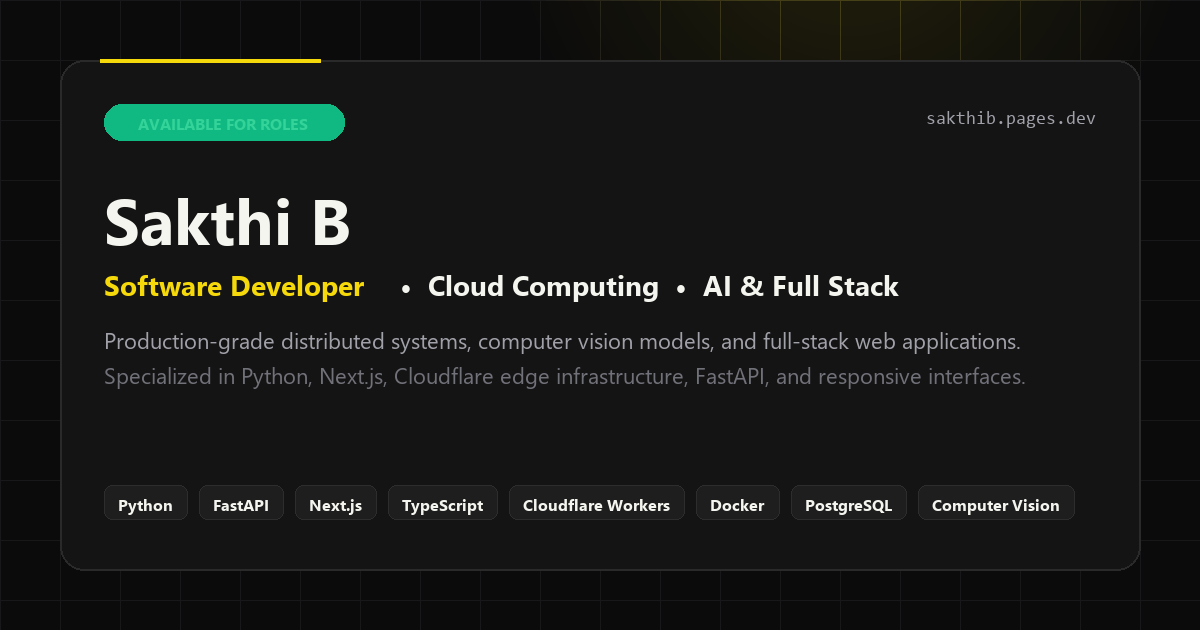
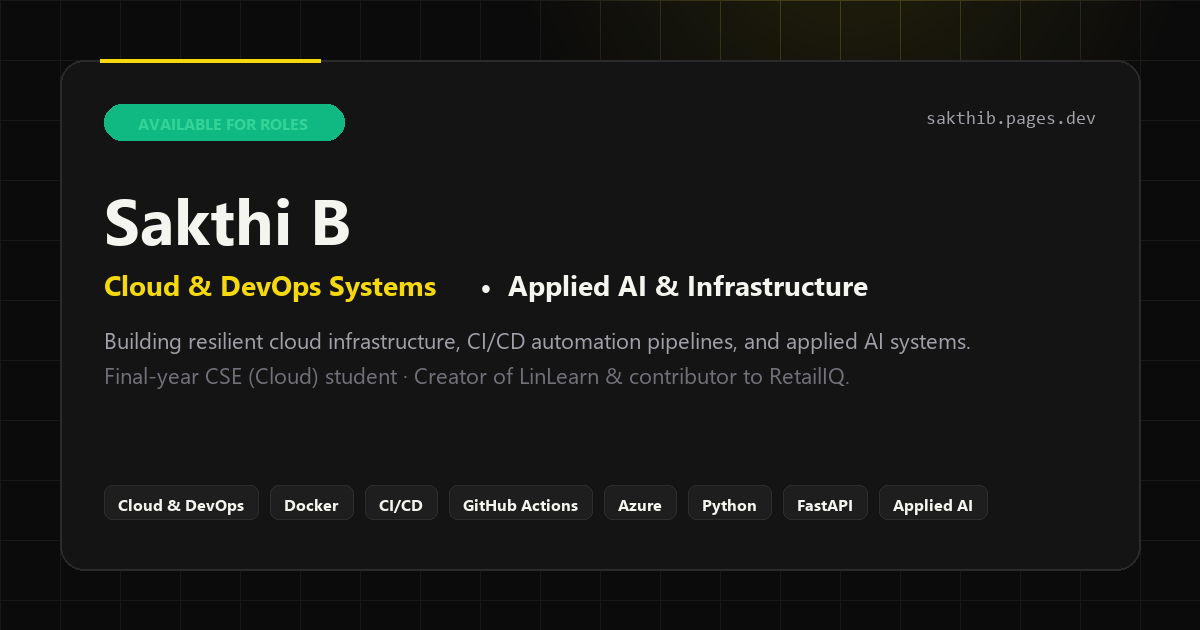
feat: revamp hero section with Cloud & DevOps positioning and proof points

diff --git a/components/HeroSection.tsx b/components/HeroSection.tsx
@@ -1,25 +1,7 @@
-import { ArrowDownRight, Download, Mail, MapPin } from "lucide-react";
+import { ArrowDownRight, ArrowUpRight, Download, Mail, MapPin } from "lucide-react";
 import Link from "next/link";
 import { GitHubIcon, LinkedInIcon } from "@/components/BrandIcons";
 import { siteConfig } from "@/lib/site-config";
-
-const focusPillars = [
-  {
-    code: "01",
-    title: "Full-Stack Engineering",
-    detail: "Next.js, TypeScript, FastAPI, Node.js, PostgreSQL & MongoDB",
-  },
-  {
-    code: "02",
-    title: "Cloud & DevOps",
-    detail: "Docker, Kubernetes, GCP Cloud Run, Azure, AWS & GitHub Actions",
-  },
-  {
-    code: "03",
-    title: "Computer Vision & AI",
-    detail: "YOLO11n, ByteTrack, OpenCV, Hybrid RAG & Groq LLM APIs",
-  },
-];
 
 export function HeroSection() {
   return (
@@ -29,35 +11,30 @@ export function HeroSection() {
       className="relative border-b border-[#242424] pt-8 pb-12 md:pt-12 md:pb-16 lg:pt-14 lg:pb-20"
     >
       <div className="portfolio-container">
-        {/* Top Metadata Bar */}
         <div className="mb-6 flex flex-wrap items-center justify-between gap-3 md:mb-8">
           <div className="inline-flex items-center gap-2 rounded-full border border-[#242424] bg-[#141414] px-3.5 py-1.5 text-meta text-[#A1A1AA]">
             <MapPin className="h-3.5 w-3.5 text-[#F5D90A]" aria-hidden="true" />
             <span>{siteConfig.location}</span>
           </div>
 
-          <div className="inline-flex items-center rounded-full bg-[#F5D90A] px-3.5 py-1.5 text-meta font-semibold text-[#0B0B0B]">
-            <span>Software Developer · Cloud &amp; AI</span>
+          <div className="inline-flex items-center gap-2 rounded-full border border-[#242424] bg-[#141414] px-3.5 py-1.5 text-meta text-[#A1A1AA]">
+            <span aria-hidden="true" className="h-1.5 w-1.5 rounded-full bg-[#F5D90A]" />
+            <span>Cloud &amp; DevOps · Applied AI</span>
           </div>
         </div>
 
-        {/* Balanced Two-Column Hero Grid */}
         <div className="grid grid-cols-1 items-start gap-8 lg:grid-cols-12 lg:items-center lg:gap-10">
-          {/* Left Column: 4-Line Editorial Headline, Intro, CTAs */}
           <div className="lg:col-span-7">
             <h1 className="font-display text-[clamp(2.15rem,1.35rem+3.8vw,4.5rem)] leading-[0.98] font-bold tracking-[-0.03em] text-[#F5F5F0]">
-              <span className="block">DESIGNING.</span>
-              <span className="block text-[#F5D90A]">BUILDING.</span>
-              <span className="block">ENGINEERING</span>
-              <span className="block">WHAT&apos;S NEXT.</span>
+              <span className="block">I BUILD</span>
+              <span className="block text-[#F5D90A]">CLOUD &amp; DEVOPS</span>
+              <span className="block">SYSTEMS.</span>
             </h1>
 
             <p className="mt-5 max-w-xl text-base leading-relaxed text-[#A1A1AA] md:mt-6 md:text-lg">
-              I&apos;m Sakthi B, a software developer interested in full-stack engineering,
-              cloud computing, computer vision, and AI-powered applications.
+              Final-year CSE (Cloud) student. I built LinLearn, a browser-native Linux &amp; DevOps training platform, and contributed frontend and CI/CD to RetailIQ, a YOLO-based retail analytics system.
             </p>
 
-            {/* Primary & Secondary CTAs */}
             <div className="mt-6 flex flex-wrap items-center gap-3.5 md:mt-7">
               <Link
                 href="/projects/"
@@ -88,7 +65,6 @@ export function HeroSection() {
               </Link>
             </div>
 
-            {/* Profile Links */}
             <div className="mt-7 flex flex-wrap items-center gap-x-4 gap-y-2 border-t border-[#242424] pt-5">
               <a
                 href={siteConfig.githubUrl}
@@ -116,7 +92,6 @@ export function HeroSection() {
             </div>
           </div>
 
-          {/* Right Column: Engineer Profile Card */}
           <div className="lg:col-span-5">
             <div className="editorial-grid-bg rounded-[20px] border border-[#242424] bg-[#141414] p-5 sm:p-6">
               <div className="flex items-center justify-between border-b border-[#242424] pb-3.5">
@@ -134,29 +109,89 @@ export function HeroSection() {
               </div>
 
               <div className="mt-4 space-y-3">
-                {focusPillars.map((pillar) => (
-                  <div
-                    key={pillar.code}
-                    className="rounded-[12px] border border-[#242424] bg-[#0B0B0B]/85 p-3.5"
-                  >
-                    <div className="flex items-center justify-between gap-2">
-                      <span className="font-display text-sm font-semibold text-[#F5F5F0]">
-                        {pillar.title}
-                      </span>
-                      <span className="font-mono-code text-xs text-[#F5D90A]">
-                        {pillar.code}
-                      </span>
-                    </div>
-                    <p className="mt-1 text-xs leading-relaxed text-[#A1A1AA]">
-                      {pillar.detail}
-                    </p>
+                <div className="rounded-[12px] border border-[#2A2A2A] bg-[#0B0B0B]/90 p-3.5 transition-colors hover:border-[#F5D90A]/40">
+                  <div className="flex items-center justify-between gap-2">
+                    <span className="font-display text-sm font-bold text-[#F5F5F0]">
+                      LinLearn
+                    </span>
+                    <span className="font-mono-code rounded bg-[#F5D90A] px-2 py-0.5 text-[10px] font-bold text-[#0B0B0B]">
+                      FEATURED PROJECT
+                    </span>
                   </div>
-                ))}
+
+                  <div className="mt-2.5 overflow-hidden rounded-[8px] border border-[#242424] bg-[#0E091A]">
+                    {/* eslint-disable-next-line @next/next/no-img-element */}
+                    <img
+                      src="/images/projects/linlearn-preview.png"
+                      alt="LinLearn Linux and DevOps training platform dashboard preview"
+                      width={480}
+                      height={230}
+                      loading="lazy"
+                      decoding="async"
+                      className="h-24 sm:h-28 w-full object-cover object-top transition-transform duration-300 hover:scale-[1.02]"
+                    />
+                  </div>
+
+                  <p className="mt-2 text-xs leading-relaxed text-[#D4D4D8]">
+                    Browser-native Linux &amp; DevOps training with incident simulation and mastery tracking
+                  </p>
+
+                  <div className="mt-3 flex flex-wrap items-center gap-2">
+                    <a
+                      href="https://linlearn.vercel.app/dashboard"
+                      target="_blank"
+                      rel="noopener noreferrer"
+                      className="inline-flex min-h-[36px] items-center gap-1.5 rounded-[6px] bg-[#F5D90A] px-3.5 py-1.5 font-display text-xs font-bold text-[#0B0B0B] transition-colors hover:bg-[#FFE524]"
+                    >
+                      <span>Live Demo</span>
+                      <ArrowUpRight className="h-3.5 w-3.5" aria-hidden="true" />
+                    </a>
+                    <a
+                      href="https://github.com/b-Sakthi/linlearn"
+                      target="_blank"
+                      rel="noopener noreferrer"
+                      className="inline-flex min-h-[36px] items-center gap-1.5 rounded-[6px] border border-[#2A2A2A] bg-[#141414] px-3 py-1.5 text-xs font-medium text-[#F5F5F0] transition-colors hover:border-[#F5D90A] hover:text-[#F5D90A]"
+                    >
+                      <GitHubIcon className="h-3.5 w-3.5" />
+                      <span>GitHub</span>
+                    </a>
+                  </div>
+                </div>
+
+                <div className="rounded-[12px] border border-[#242424] bg-[#0B0B0B]/85 p-3.5">
+                  <div className="flex items-center justify-between gap-2">
+                    <span className="font-display text-sm font-semibold text-[#F5F5F0]">
+                      Cloud &amp; DevOps
+                    </span>
+                    <span className="font-mono-code text-xs text-[#F5D90A]">
+                      02
+                    </span>
+                  </div>
+                  <p className="mt-1 text-xs leading-relaxed text-[#A1A1AA]">
+                    Docker, Docker Compose, GitHub Actions, CI/CD, Azure
+                  </p>
+                </div>
+
+                <div className="rounded-[12px] border border-[#242424] bg-[#0B0B0B]/85 p-3.5">
+                  <div className="flex items-center justify-between gap-2">
+                    <span className="font-display text-sm font-semibold text-[#F5F5F0]">
+                      Computer Vision &amp; AI
+                    </span>
+                    <span className="font-mono-code text-xs text-[#F5D90A]">
+                      03
+                    </span>
+                  </div>
+                  <p className="mt-1 text-xs leading-relaxed text-[#A1A1AA]">
+                    Python, FastAPI, OpenCV, Hybrid RAG, Groq
+                  </p>
+                </div>
               </div>
 
               <div className="mt-4 flex items-center justify-between border-t border-[#242424] pt-3.5 text-meta text-[#A1A1AA]">
                 <span>B.Tech CSE · Cloud</span>
-                <span className="font-mono-code text-[#F5F5F0]">CGPA 7.9/10</span>
+                <span className="font-mono-code text-xs font-semibold text-[#F5F5F0]">
+                  AZ-900 · OCI AI Foundations 2025
+                </span>
               </div>
             </div>
           </div>

diff --git a/app/layout.tsx b/app/layout.tsx
@@ -37,25 +37,28 @@ export const viewport: Viewport = {
 export const metadata: Metadata = {
   metadataBase: new URL(siteConfig.siteUrl),
   title: {
-    default: `${siteConfig.name} | Software Developer`,
+    default: `${siteConfig.name} | Cloud & DevOps Systems`,
     template: `%s | ${siteConfig.name}`,
   },
   description:
-    "Portfolio of Sakthi B — Software Developer in Bengaluru, India specializing in full-stack engineering, cloud computing, computer vision, and AI-powered applications.",
+    "Portfolio of Sakthi B — Cloud & DevOps engineer and final-year CSE student in Bengaluru building reliable cloud infrastructure, CI/CD pipelines, and applied AI systems.",
   keywords: [
     "Sakthi B",
-    "Software Developer",
-    "Full Stack Engineer",
     "Cloud Computing",
-    "Computer Vision",
-    "AI Applications",
+    "DevOps",
+    "CI/CD",
+    "Docker",
+    "Azure",
+    "GitHub Actions",
+    "LinLearn",
+    "RetailIQ",
+    "Applied AI",
     "Bengaluru",
-    "Next.js",
     "FastAPI",
     "Python",
+    "Next.js",
     "TypeScript",
     "Cloudflare Workers",
-    "Docker",
   ],
   authors: [{ name: siteConfig.name, url: siteConfig.githubUrl }],
   creator: siteConfig.name,
@@ -68,23 +71,23 @@ export const metadata: Metadata = {
     locale: "en_IN",
     url: "/",
     siteName: `${siteConfig.name} Portfolio`,
-    title: `${siteConfig.name} | Software Developer`,
+    title: `${siteConfig.name} | Cloud & DevOps Systems`,
     description:
-      "Software developer in Bengaluru, India specializing in full-stack engineering, cloud computing, computer vision, and AI-powered applications.",
+      "Cloud & DevOps engineer building resilient cloud infrastructure, CI/CD automation, and applied AI systems.",
     images: [
       {
         url: "/og-image.png",
         width: 1200,
         height: 630,
-        alt: `${siteConfig.name} | Software Developer Portfolio`,
+        alt: `${siteConfig.name} | Cloud & DevOps Systems Portfolio`,
       },
     ],
   },
   twitter: {
     card: "summary_large_image",
-    title: `${siteConfig.name} | Software Developer`,
+    title: `${siteConfig.name} | Cloud & DevOps Systems`,
     description:
-      "Software developer in Bengaluru, India specializing in full-stack engineering, cloud computing, computer vision, and AI-powered applications.",
+      "Cloud & DevOps engineer building resilient cloud infrastructure, CI/CD automation, and applied AI systems.",
     images: ["/og-image.png"],
   },
   robots: {

diff --git a/components/FloatingActionButton.tsx b/components/FloatingActionButton.tsx
@@ -86,14 +86,20 @@ export function FloatingActionButton() {
         )}
       </AnimatePresence>
 
-      {/* Main Trigger Button */}
       <button
         type="button"
         onClick={() => setOpen((prev) => !prev)}
         aria-expanded={open}
-        aria-label={open ? "Close quick actions menu" : "Open quick actions menu"}
+        aria-label={open ? "Close quick actions and contact menu" : "Quick actions and contact menu"}
+        title={open ? "Close quick actions" : "Quick actions & contact"}
         className="group relative flex h-13 w-13 items-center justify-center rounded-full border border-[#F5D90A]/30 bg-[#141414] text-[#F5D90A] shadow-2xl transition-all duration-200 hover:scale-105 hover:border-[#F5D90A] hover:bg-[#F5D90A] hover:text-[#0B0B0B] focus-visible:outline-2 focus-visible:outline-[#F5D90A] active:scale-95"
       >
+        <span
+          role="tooltip"
+          className="pointer-events-none absolute right-full mr-3 hidden whitespace-nowrap rounded-[6px] border border-[#2A2A2A] bg-[#141414] px-3 py-1.5 text-xs font-medium text-[#F5F5F0] shadow-xl transition-opacity sm:group-hover:block sm:group-focus-visible:block"
+        >
+          {open ? "Close menu" : "Quick actions & contact"}
+        </span>
         <span
           aria-hidden="true"
           className="absolute inset-0 rounded-full bg-[#F5D90A]/10 animate-ping pointer-events-none"

diff --git a/components/Footer.tsx b/components/Footer.tsx
@@ -1,7 +1,6 @@
 "use client";
 
 import { ArrowUp } from "lucide-react";
-import Link from "next/link";
 import { siteConfig } from "@/lib/site-config";
 
 export function Footer() {
@@ -30,13 +29,6 @@ export function Footer() {
         </div>
 
         <div className="flex flex-wrap items-center gap-4 sm:gap-6">
-          <Link
-            href="/analytics/"
-            prefetch={false}
-            className="inline-flex min-h-[44px] items-center text-sm text-[#A1A1AA] transition-colors hover:text-[#F5D90A]"
-          >
-            Analytics
-          </Link>
           <a
             href={`mailto:${siteConfig.email}`}
             className="inline-flex min-h-[44px] items-center text-sm text-[#A1A1AA] transition-colors hover:text-[#F5D90A]"

diff --git a/components/AboutSection.tsx b/components/AboutSection.tsx
@@ -23,7 +23,7 @@ export function AboutSection() {
               <p className="text-base leading-relaxed md:text-lg">
                 I&apos;m a Computer Science undergraduate specializing in{" "}
                 <span className="text-[#F5F5F0]">Cloud Computing</span> at
-                Alliance University, Bengaluru (2023–2027).
+                Alliance University, Bengaluru (2023–2027, CGPA: 7.9/10).
               </p>
               <p className="text-base leading-relaxed md:text-lg">
                 I build full-stack applications, cloud systems, and AI-powered

diff --git a/components/Navbar.tsx b/components/Navbar.tsx
@@ -57,7 +57,7 @@ export function Navbar() {
 
   return (
     <>
-      <header className="sticky top-0 z-40 border-b border-[#242424] bg-[#0B0B0B]/92 backdrop-blur-md">
+      <header className="sticky top-0 z-40 border-b border-[#242424] bg-[#0B0B0B] backdrop-blur-md">
         <div className="portfolio-container flex h-20 items-center justify-between gap-4">
           <div className="flex items-center gap-3">
             <button

diff --git a/lib/site-config.ts b/lib/site-config.ts
@@ -1,7 +1,7 @@
 export const siteConfig = {
   name: "Sakthi B",
   shortName: "SAKTHI B",
-  role: "Software Developer | Cloud Computing | AI & Full Stack Engineering",
+  role: "Cloud & DevOps Systems | Applied AI & Distributed Infrastructure",
   location: "Bengaluru, India",
   email: "sakthibalamurugan06@gmail.com",
   phone: "+91 6362163738",
